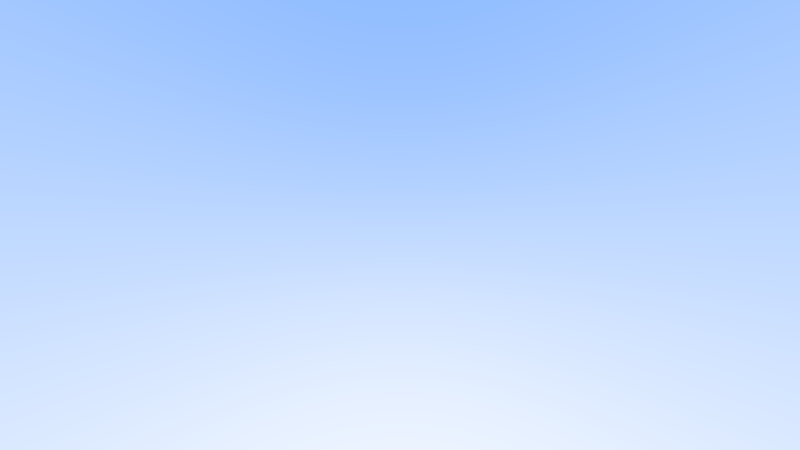
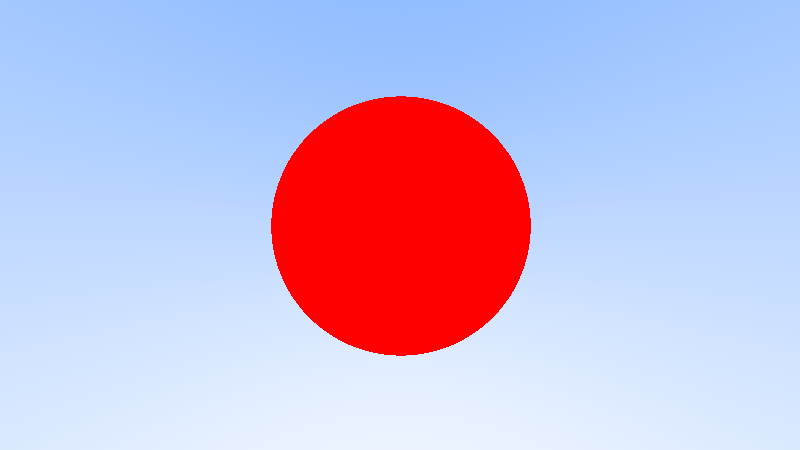
feature(red_ball): adding red ball render

Changed region(s): [[0.3125, 0.2178, 0.6875, 0.8089]]

diff --git a/main.py b/main.py
@@ -21,10 +21,17 @@ lowerLeftCorner = origin - (horizontal / 2) - (vertical / 2) - vec3(0.0, 0.0, fo
 
 print("Imagem size %d x %d" % (width, height))
 
-def raycolor(ray):
-  t = 0.5 * (ray.direction[1] + 1.0)
+def backgroundColor(dir):
+  t = 0.5 * (dir[1] + 1.0)
   return (1.0 - t) *  np.array([1.0, 1.0, 1.0]) + t*np.array([0.5, 0.7, 1.0])
 
+def raycolor(ray, sphere):
+  if (hitSphere(sphere, ray)): 
+    return np.array([1.0, 0.0, 0.0])
+  else: 
+    return backgroundColor(ray.direction)
+
+s1 = Sphere(vec3(0.0, 0.0, -1.0), 0.5)
 for j in range(height):
   for i in range(width):      
     u = (i - 1) / (width - 1)
@@ -32,7 +39,7 @@ for j in range(height):
     direc = lowerLeftCorner + u*horizontal + v*vertical - origin 
     ray = Ray(origin, direc)
 
-    image[j, i] = np.clip(raycolor(ray), 0, 1)
+    image[j, i] = np.clip(raycolor(ray, s1), 0, 1)
 
     # image[j, i] = np.clip([r, g, b], 0, 1)
 

diff --git a/vector.py b/vector.py
@@ -5,7 +5,7 @@ def vec3(x, y, z):
   return np.array([x, y, z])
 
 def normsquared(v):
-  return np.linalg.norm(v, ord=2) 
+  return np.linalg.norm(v)**2 
 
 def norm(v):
   return np.linalg.norm(v)
@@ -21,3 +21,21 @@ class Ray:
     self.origin = origin
     self.direction = unitvector(direction) 
 
+class Sphere:
+  def __init__(self, center, radius):
+    self.center = center
+    self.radius = radius
+
+
+def hitSphere(sphere, ray):
+  # bhaskara
+  a = normsquared(ray.direction)
+  oc = sphere.center - ray.origin
+  b = 2.0 * dot(ray.direction, oc)
+  c = normsquared(oc) - sphere.radius**2
+  discriminant = (b*b) - 4 * a * c
+
+  if (discriminant <= 0):
+    return False
+  else: 
+    return True
